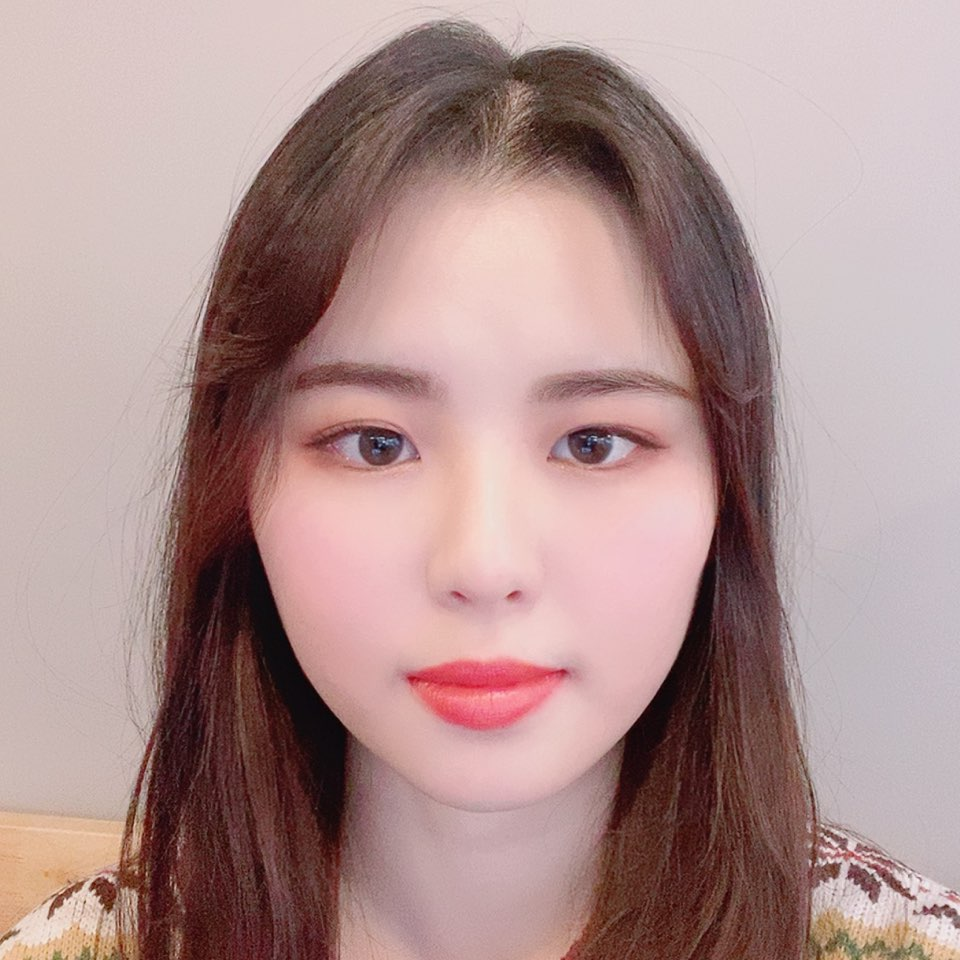
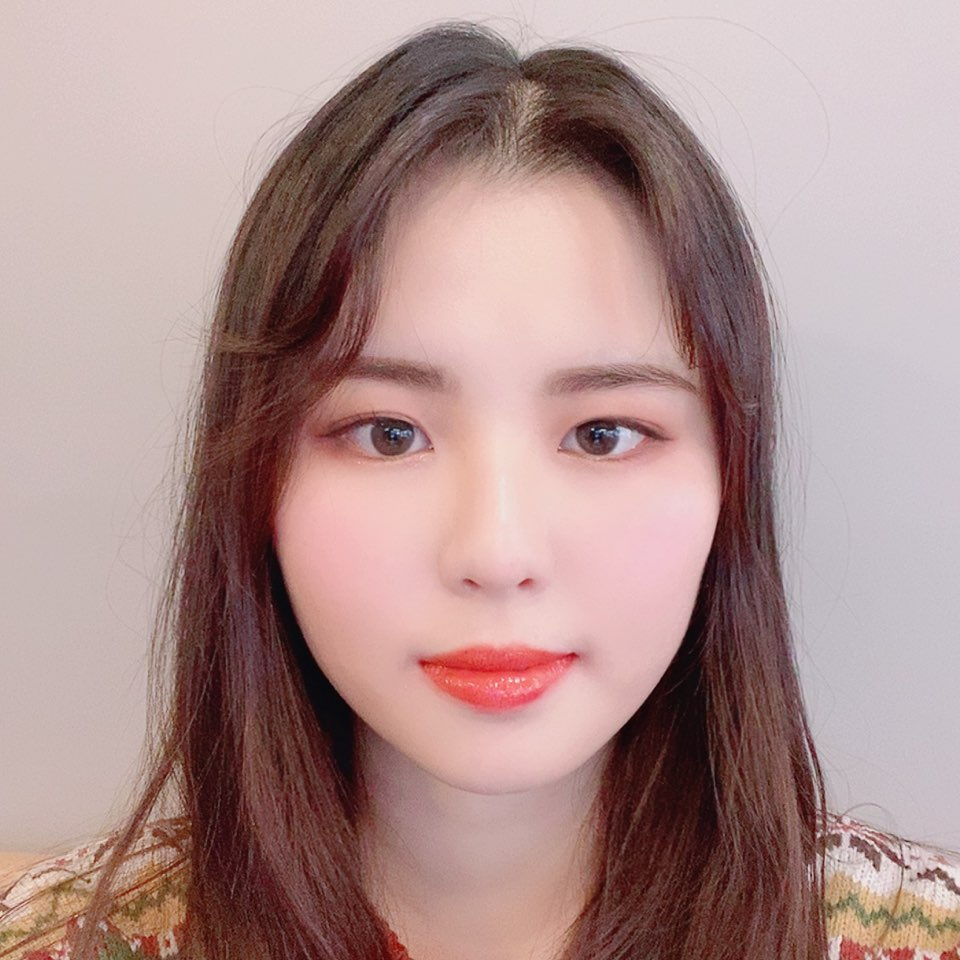
add comments

Changed region(s): [[0.0, 0.0, 1.0, 1.0], [0.4062, 0.5938, 0.625, 0.7812]]

diff --git a/makeup.py b/makeup.py
@@ -7,8 +7,8 @@ import argparse
 
 
 def parse_args():
-    parse = argparse.ArgumentParser()
-    parse.add_argument('--img-path', default='imgs/116.jpg')
+    parse = argparse.ArgumentParser() #파이썬 내장 모듈(argparse). 스크립트 호출 당시 인자값을 다르게 줘서 다르게 동작시키고 싶을 때.
+    parse.add_argument('--img-path', default='imgs/116.jpg') #--img-path 에 해당하는 값 인자값으로 받음
     return parse.parse_args()
 
 
@@ -32,7 +32,7 @@ def sharpen(img):
 
 
 def hair(image, parsing, part=17, color=[230, 50, 20]):
-    b, g, r = color      #[10, 50, 250]       # [10, 250, 10]
+    b, g, r = color      
     tar_color = np.zeros_like(image)
     tar_color[:, :, 0] = b
     tar_color[:, :, 1] = g
@@ -55,6 +55,7 @@ def hair(image, parsing, part=17, color=[230, 50, 20]):
     return changed
 
 
+# __name__ : import한 모듈의 이름이 들어가는 부분. import하면 우선 그 모듈 실행함. 모듈 실행 시 __name__에 모듈 이름 들어감 / 시작점인지 아닌지(모듈인지) 확인하는 코드
 if __name__ == '__main__':
     # 1  face
     # 11 teeth
@@ -64,6 +65,7 @@ if __name__ == '__main__':
 
     args = parse_args()
 
+    # dictionary형. table['hair']=17로 사용
     table = {
         'hair': 17,
         'upper_lip': 12,
@@ -74,19 +76,20 @@ if __name__ == '__main__':
     cp = 'cp/79999_iter.pth'
 
     image = cv2.imread(image_path)
-    ori = image.copy()
-    parsing = evaluate(image_path, cp)
-    parsing = cv2.resize(parsing, image.shape[0:2], interpolation=cv2.INTER_NEAREST)
+    ori = image.copy() # 원래 original image
+    parsing = evaluate(image_path, cp) # test.py의 evaluate() 함수. (512, 512)의 image (parsing) return. (cp/79999_iter.pth 에 저장된 weight들 불러오는 코드? 성능평가?)
+    parsing = cv2.resize(parsing, image.shape[0:2], interpolation=cv2.INTER_NEAREST) #이미지 사이즈 조정. 픽셀사이 값 보간. / image.shape[] : [Y축, X축, 채널수] 순서 중 0,1번지 2개만 가져옴
 
-    parts = [table['hair'], table['upper_lip'], table['lower_lip']]
+    parts = [table['hair'], table['upper_lip'], table['lower_lip']] #[17, 12, 13]
 
-    colors = [[17, 17, 63], [0, 57, 238], [0, 57, 238]] #[b,g,r] 순서, [[hair??],[upper_lip],[lower_lip]]
+    colors = [[17, 17, 63], [42.75, 63.84, 208.98], [42.75, 63.84, 208.98]] #[b,g,r] 순서, [[hair??],[upper_lip],[lower_lip]]
 
+    # 두 변수 part라는 index는 parts를, color는 colors를 동시에 for문을 돌음
     for part, color in zip(parts, colors):
-        image = hair(image, parsing, part, color)
+        image = hair(image, parsing, part, color) #hair함수에 들어가는 인자 image는 원래 원본이미지 / 한 부분, 한 색상(bgr)씩 들어감 => 3번 돌면 image 완성
 
-    cv2.imshow('image', cv2.resize(ori, (512, 512)))
-    cv2.imshow('color', cv2.resize(image, (512, 512)))
+    cv2.imshow('image', cv2.resize(ori, (512, 512)))    # 원본이미지 
+    cv2.imshow('color', cv2.resize(image, (512, 512)))  # makeup이미지
 
     cv2.waitKey(0)
     cv2.destroyAllWindows()

diff --git a/test.py b/test.py
@@ -71,13 +71,14 @@ def evaluate(image_path='./imgs/116.jpg', cp='cp/79999_iter.pth'):
         img = img.cuda()
         out = net(img)[0]
         parsing = out.squeeze(0).cpu().numpy().argmax(0)
-        # print(parsing)
-        # print(np.unique(parsing))
+        # print(np.shape(img),np.shape(parsing),parsing) => torch.Size([1,3,512, 512]) / (512, 512) / [0 0 0...0 0 0]~[17 17 17... 17 17 17]
+        # print(np.unique(parsing)) 
 
         # vis_parsing_maps(image, parsing, stride=1, save_im=False, save_path=osp.join(respth, dspth))
         return parsing
 
 if __name__ == "__main__":
-    evaluate(dspth='/home/zll/data/CelebAMask-HQ/test-img/116.jpg', cp='79999_iter.pth')
+    #evaluate(dspth='/home/zll/data/CelebAMask-HQ/test-img/116.jpg', cp='79999_iter.pth')
+    evaluate('./imgs/116.jpg', cp='cp/79999_iter.pth') #이렇게 바꾸면 오류는 해결. line74 주석처리하면 아무것도 출력 X
 
 
